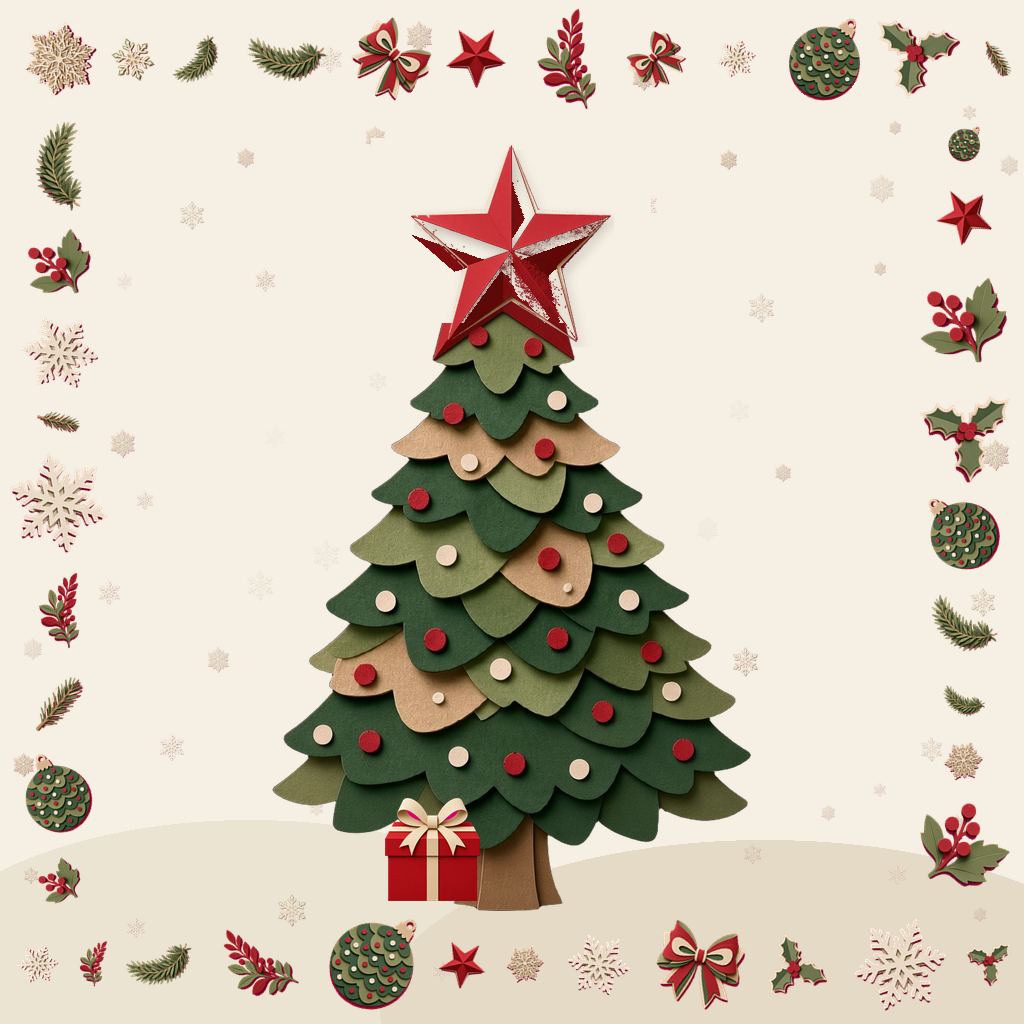
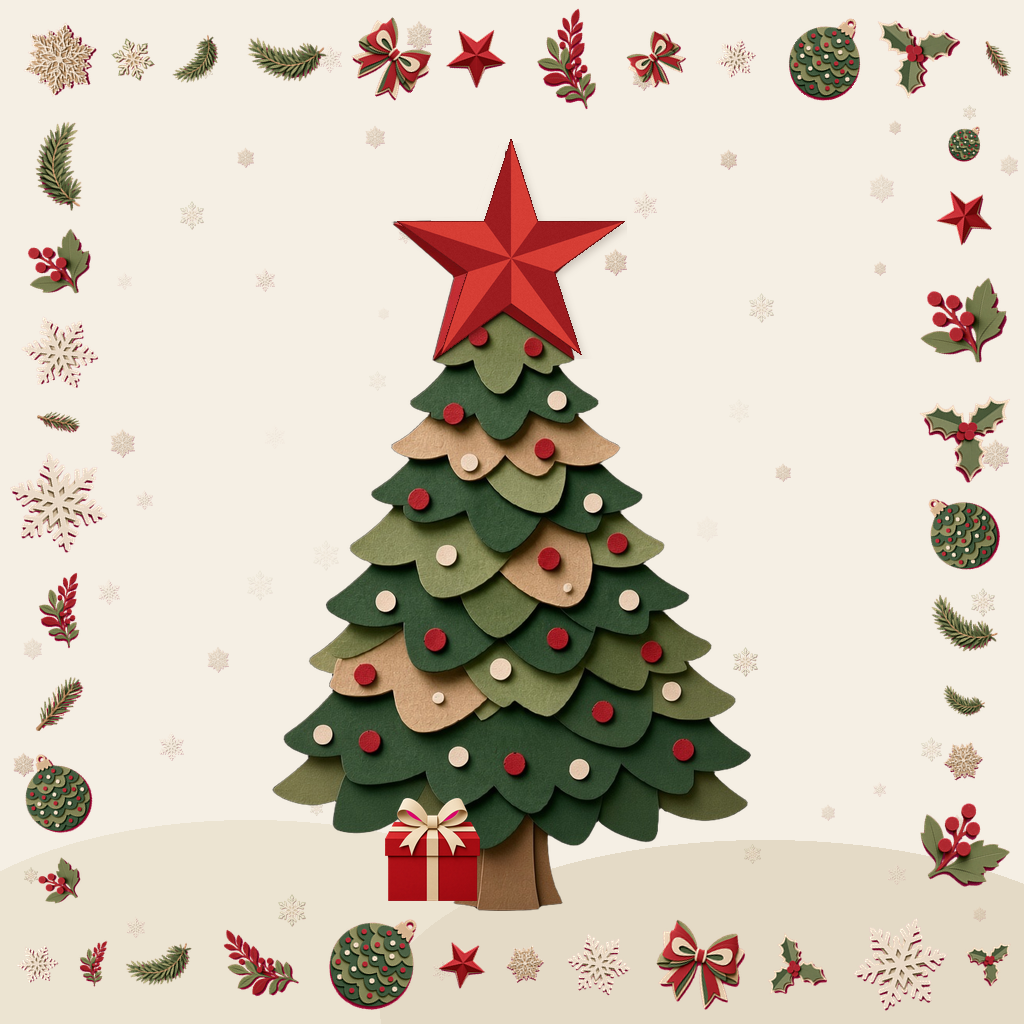
Fix paper cover star: solid complete v21 topper
Replace broken pack-star overlay with a procedural solid red
five-point topper (all tips intact). Update cover-paper.png,
timestamped cover-paper-v21, pack star/tree, paper VER 19.

Changed region(s): [[0.375, 0.125, 0.625, 0.3438]]

diff --git a/hosts/paper/src/paperAssets.js b/hosts/paper/src/paperAssets.js
@@ -5,7 +5,7 @@ import { loadImage } from './pixelAssets.js'
 
 const BASE = import.meta.env.BASE_URL
 const P = `${BASE}paper`
-const VER = '18'
+const VER = '19'
 
 export const PAPER = {
   guideSnow: `${P}/guide-snow.jpg?v=${VER}`,

diff --git a/src/paperAssets.js b/src/paperAssets.js
@@ -5,7 +5,7 @@ import { loadImage } from './pixelAssets.js'
 
 const BASE = import.meta.env.BASE_URL
 const P = `${BASE}paper`
-const VER = '18'
+const VER = '19'
 
 export const PAPER = {
   guideSnow: `${P}/guide-snow.jpg?v=${VER}`,
